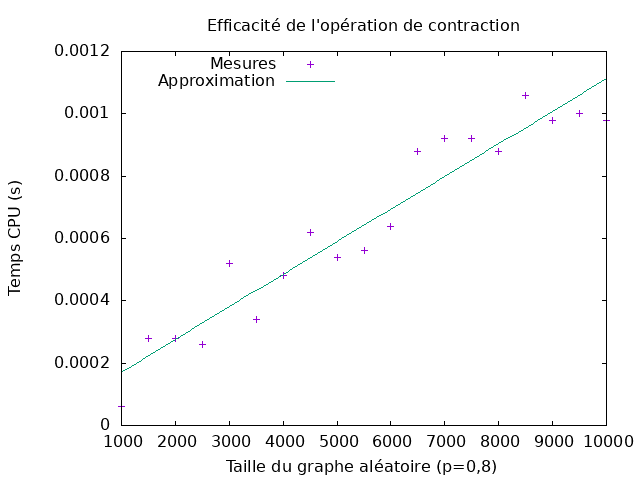
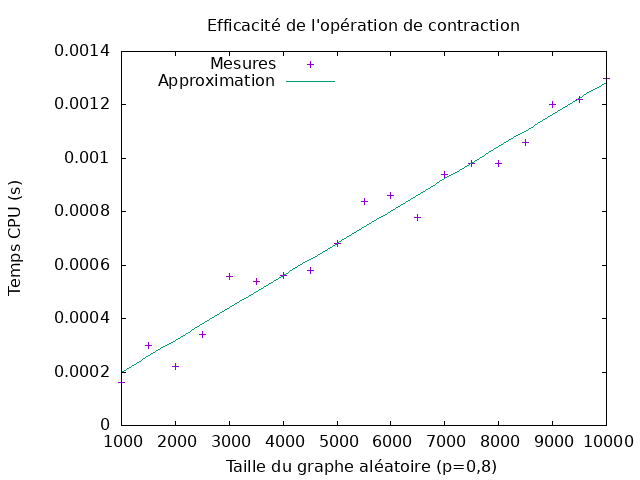
syncro contraction

diff --git a/source/graphes.py b/source/graphes.py
@@ -14,12 +14,11 @@ class Multigraphe:
         return np.array2string(self.mat) + "\n" + str(self.s)
 
     def contraction(self,u,v):
-        self.mat[u,v] = 0
         self.mat[u] += self.mat[v]
-        self.mat[v] = np.zeros(len(self.mat),dtype='int32')
         self.mat[:,u] = self.mat[u]
+        self.mat[v] = np.zeros(len(self.mat),dtype='int32')
         self.mat[:,v] = self.mat[v]
-        self.mat[u,v] = 0
+        self.mat[u,u] = 0
         self.s[u].update(self.s[v]) # Nouveau nom du sommet
         self.s[v] = {}
 
@@ -38,10 +37,11 @@ class Multigraphe:
 
     def get_nb_arete(self):
         return np.sum(self.mat)//2
-    
+
     def copy(self,G):
         self.mat=copy.deepcopy(G.mat)
         self.s=copy.deepcopy(G.s)
+
 
 class MultigrapheList:
     def __init__(self,mat):
@@ -75,11 +75,12 @@ class MultigrapheList:
 
     def get_nb_arete(self):
         return len(list(itertools.chain(*self.adjList.values())))//2
-        
+
     def copy(self,G):
         self.adjList=copy.deepcopy(G.adjList)
         self.s=copy.deepcopy(G.s)
         
+
 def ncycle(n):
     return np.array([[1 if (j == i+1 or i == j+1 or (i==0 and j==n-1) or (j==0 and i==n-1)) else 0 for j in range(n)] for i in range(n)])
 

diff --git a/source/test.py b/source/test.py
@@ -9,14 +9,14 @@ from karger import *
 def main(argv):
     
     T=10
-    m = MultigrapheList(ncomplet(5))
+    m = MultigrapheList(ncomplet(10))
     print(m)
     print("karger\n")
     print(kargerIt(m,T))
     print(m.get_nb_arete())
     print(m)
     print("\n")
-    mref = Multigraphe(ncomplet(5))
+    mref = Multigraphe(ncomplet(10))
     print(mref)
     print(kargerIt(mref,T))
     print(mref.get_nb_arete())

diff --git a/source/karger.py b/source/karger.py
@@ -1,9 +1,11 @@
 import numpy as np
 import copy
+
 def karger(MG):
     nbS=len(MG.s)
     while nbS > 2:
         u,v = MG.tirage_arete()
+        print(u,v)
         MG.contraction(u,v)
         nbS -= 1
     C = list(filter(lambda a: a != {}, MG.s))[0]

diff --git a/source/efficacite_karger.py b/source/efficacite_karger.py
@@ -1,4 +1,4 @@
-import numpy as np
+    import numpy as np
 import time
 import uuid
 import sys
